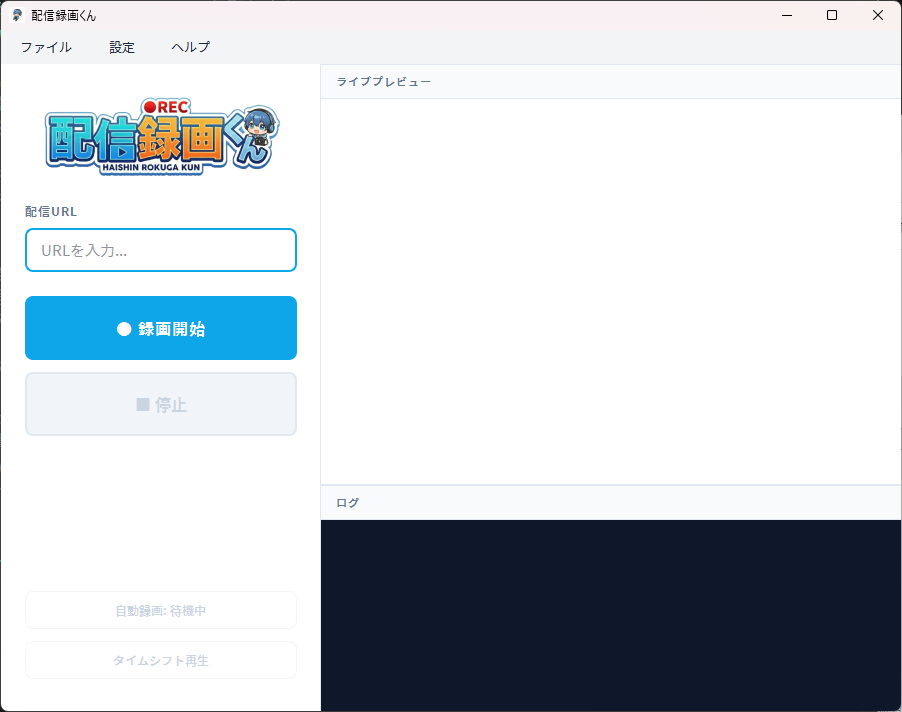
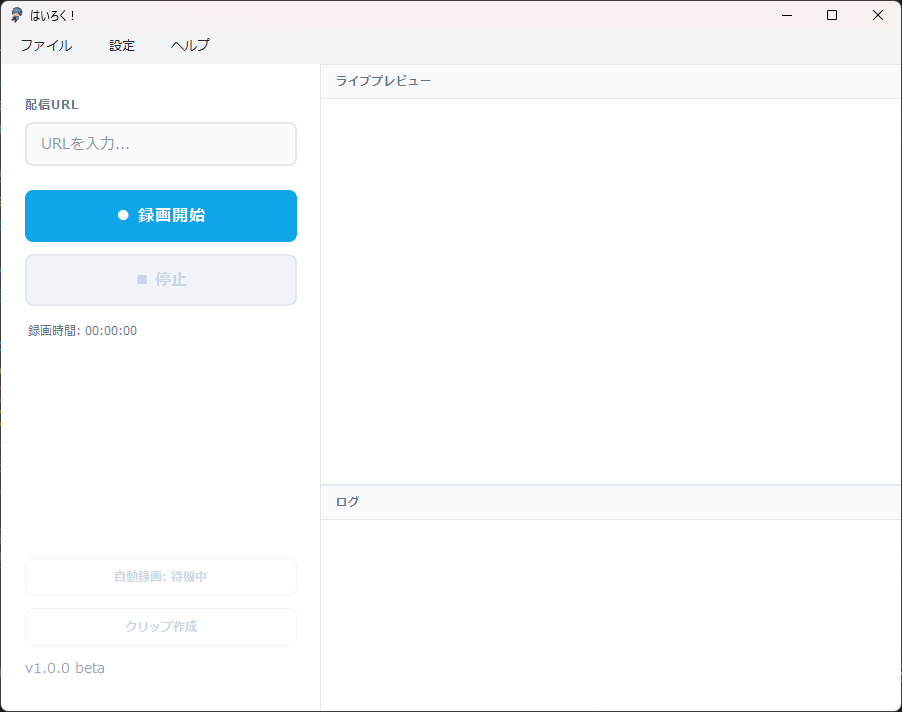
fix(terms): 「配信録画くん」から「はいろく！」への表記を修正し、利用規約の内容を更新

diff --git a/download.html b/download.html
@@ -112,7 +112,7 @@
             
             <div class="tos-scroll-area" id="tos-scroll">
                 <p><strong>第1条（はじめに）</strong><br>
-                このソフトウェア「配信録画くん」（以下、本ソフト）は私用目的のために開発したものです。ご利用になる前に、本規約を必ずお読みください。</p>
+                このソフトウェア「はいろく！」（以下、本ソフト）は録画した配信をネットへの公開を前提として開発していません。ご利用になる前に、本規約を必ずお読みください。</p>
                 <br>
                 <p><strong>第2条（著作権）</strong><br>
                 本ソフトに関する著作権その他の権利は、開発者に帰属します。</p>
